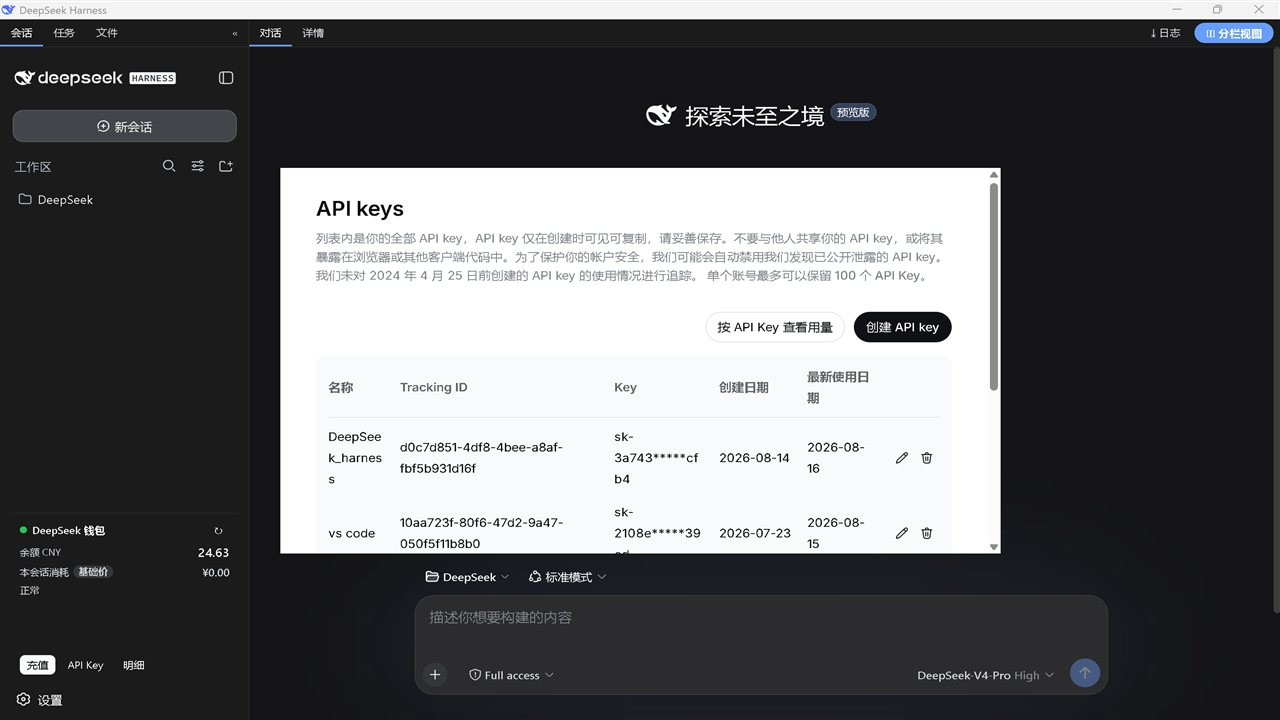
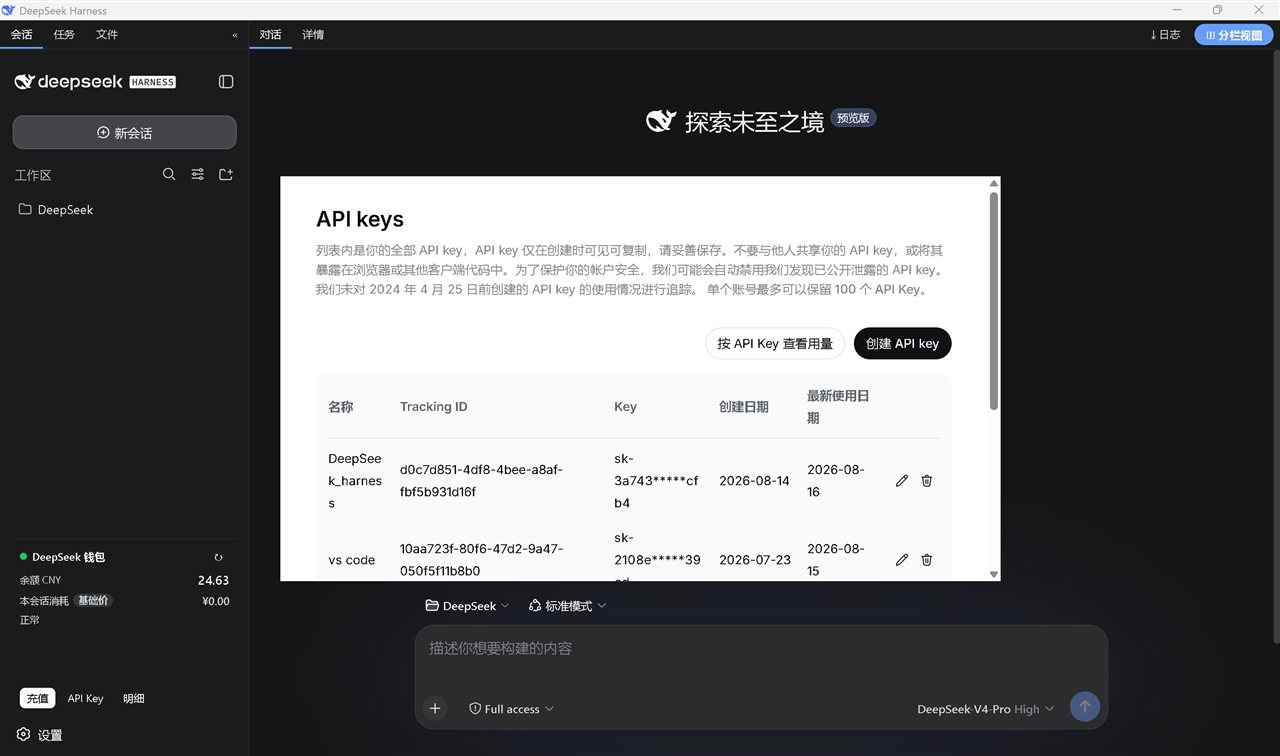
feat: v1.1.0 消耗上限可编辑告警（上下文过长居中提示）+ 三张界面截图

diff --git a/lib/client.js b/lib/client.js
@@ -63,6 +63,11 @@ window.__ModuleLoader__.load({
 .dsw-band.offpeak{background:color-mix(in srgb,var(--dsw-alias-state-success-primary) 20%,transparent);color:var(--dsw-alias-state-success-primary);}
 .dsw-bal-val{font-weight:600;font-size:14px;font-variant-numeric:tabular-nums;}
 .dsw-cost-val{font-weight:600;font-size:13px;font-variant-numeric:tabular-nums;color:var(--dsw-alias-label-secondary);cursor:default;}
+.dsw-threshold-wrap{display:inline-flex;align-items:center;gap:3px;}
+.dsw-threshold-symbol{color:var(--dsw-alias-label-secondary);font-size:11px;}
+.dsw-threshold-input{width:54px;background:var(--dsw-alias-bg-layer-1);border:1px solid var(--dsw-alias-border-l1);color:var(--dsw-alias-label-primary);border-radius:6px;padding:2px 6px;font-size:11px;font-family:inherit;text-align:right;font-variant-numeric:tabular-nums;box-sizing:border-box;}
+.dsw-threshold-input:focus{outline:none;border-color:var(--dsw-alias-brand-primary);}
+.dsw-center{text-align:center;line-height:1.6;}
 .dsw-cost-wrap{position:relative;display:inline-flex;}
 .dsw-tooltip{display:none;position:absolute;right:0;top:calc(100% + 6px);z-index:50;min-width:220px;background:var(--dsw-alias-bg-overlay);border:1px solid var(--dsw-alias-border-l2);border-radius:8px;padding:7px 9px;flex-direction:column;gap:4px;box-shadow:var(--dsw-shadow-lv2);}
 .dsw-cost-wrap:hover .dsw-tooltip{display:flex;}
@@ -101,6 +106,7 @@ window.__ModuleLoader__.load({
       );
       const [view, setView] = React.useState(null);
       const [cost, setCost] = React.useState(null);
+      const [thresholdDraft, setThresholdDraft] = React.useState(null);
       const labelRef = React.useRef(null);
       const bandRef = React.useRef(null);
 
@@ -148,9 +154,22 @@ window.__ModuleLoader__.load({
       const currency = view && (view.currency || (view.balances[0] && view.balances[0].currency)) || 'CNY';
       const total = view && view.total !== undefined ? view.total : undefined;
       const costTotal = cost && cost.ok === true && cost.cost !== undefined ? cost.cost : undefined;
+      const threshold = view && view.costThreshold !== undefined ? view.costThreshold : 5;
+      const overThreshold = costTotal !== undefined && costTotal > threshold;
+
+      const saveThreshold = (val) => {
+        const t = Number(val);
+        setThresholdDraft(null);
+        if (!Number.isFinite(t) || t < 0 || t === threshold) return;
+        fetch('/wallet/api/set-threshold', { method: 'POST', headers: { 'Content-Type': 'application/json' }, body: JSON.stringify({ threshold: t }) })
+          .then((r) => r.json())
+          .then((v) => { if (v && v.ok) { apiGet('/wallet/api/balance').then((b) => setView(b), () => {}); } })
+          .catch(() => {});
+      };
 
       const statusLine = !view ? '连接中…'
-        : (view.error ? '余额查询失败' : (view.available ? '正常' : '账户不可用'));
+        : (view.error ? '余额查询失败'
+          : (view.available ? '上下文长度正常' : '账户不可用'));
 
       return h('div', { className: 'dsw-dock' },
         h('div', { className: 'dsw-dock-head' },
@@ -190,7 +209,25 @@ window.__ModuleLoader__.load({
             ),
           ) : h('span', { className: 'dsw-cost-val' }, costTotal !== undefined ? ('¥' + fmt(costTotal)) : '--'),
         ),
-        h('div', { className: 'dsw-hint' }, statusLine),
+        h('div', { className: 'dsw-bal-row' },
+          h('span', { className: 'dsw-bal-cur' }, '消耗上限'),
+          h('span', { className: 'dsw-threshold-wrap' },
+            h('span', { className: 'dsw-threshold-symbol' }, '¥'),
+            h('input', {
+              className: 'dsw-threshold-input',
+              type: 'number', min: 0, step: 0.5,
+              value: thresholdDraft !== null ? thresholdDraft : threshold,
+              onChange: (e) => setThresholdDraft(e.target.value),
+              onBlur: (e) => saveThreshold(e.target.value),
+              onKeyDown: (e) => { if (e.key === 'Enter') e.target.blur(); },
+            }),
+          ),
+        ),
+        overThreshold
+          ? h('div', { className: 'dsw-err dsw-center' },
+              h('div', null, '⚠ 当前窗口上下文过长'),
+              h('div', null, '请尝试新建对话避免余额浪费'))
+          : h('div', { className: 'dsw-hint dsw-center' }, statusLine),
         h('div', { className: 'dsw-dock-btns' },
           h('button', { type: 'button', className: 'dsw-btn dsw-primary', onClick: () => openUrl(RECHARGE_URL) }, '充值'),
           h('button', { type: 'button', className: 'dsw-btn', onClick: () => openUrl(API_KEYS_URL) }, 'API Key'),

diff --git a/lib/index.js b/lib/index.js
@@ -67,6 +67,7 @@ export function apply(ctx) {
   let balanceView = null;
   let balanceAt = 0;
   let inflight = null;
+  let costThreshold = 5; // 上下文消耗告警阈值（CNY，默认 5 元）
 
   async function resolveKey() {
     if (!credentials) return "";
@@ -117,6 +118,7 @@ export function apply(ctx) {
           fetchedAt,
           available: body.is_available !== false,
           balances: buckets,
+          costThreshold,
           ...(total !== undefined && !Number.isNaN(total) ? { total, currency: buckets[0].currency } : {}),
           ...(low.length ? { low } : {}),
         };
@@ -205,6 +207,15 @@ export function apply(ctx) {
     const session = resolveSession(sid);
     if (!session) return { ok: false, error: "unknown-session" };
     return { ok: true, ...sessionCost(session) };
+  });
+  registerRoute("POST", "/wallet/api/set-threshold", async (req) => {
+    let body = "";
+    try { for await (const chunk of req) body += chunk; } catch { /* ignore */ }
+    let parsed = {};
+    try { parsed = body ? JSON.parse(body) : {}; } catch { /* ignore */ }
+    const t = Number(parsed.threshold);
+    if (Number.isFinite(t) && t >= 0) costThreshold = t;
+    return { ok: true, costThreshold };
   });
 
   // —— 模型工具 ——

diff --git a/README.md b/README.md
@@ -10,6 +10,7 @@ DeepSeek Harness（DSH）钱包插件 —— 在左栏底部常驻显示 **DeepS
 | 会话成本 | 用 DSH token-meter 投影 × 官方价格表，实时估算**当前会话消耗金额**；悬停金额展开输入 / 缓存命中 / 输出的 token 量与金额明细 |
 | 峰谷计价 | 已内置 2026-08-17 生效的官方峰谷价：高峰时段（北京 9:00–12:00、14:00–18:00）自动按高峰价，其余空闲价 |
 | 低余额告警 | CNY < ¥10 或 USD < $2 时面板标红提醒充值 |
+| 消耗上限 | 可编辑单会话消耗上限（默认 ¥5），超限时居中提示「上下文过长，建议新建对话避免余额浪费」 |
 | 一键充值 | 点击「充值」在 **DSH 窗口内**打开官方充值页 `platform.deepseek.com/top_up`（不弹系统浏览器） |
 | API Key | 自动读取 DSH 凭据 `DEEPSEEK_API_KEY`，点击「API Key」在 DSH 窗口内打开官方 Keys 页 |
 | 用量明细 | 点击「明细」在 DSH 窗口内打开官方用量页 `platform.deepseek.com/usage` |
@@ -24,6 +25,10 @@ DeepSeek Harness（DSH）钱包插件 —— 在左栏底部常驻显示 **DeepS
 完整界面：
 
 ![界面](https://cdn.jsdelivr.net/gh/Ln1m/dsh-wallet@main/assets/screenshot.jpg)
+
+消耗上限设置（可编辑）与上下文过长告警：
+
+![消耗上限](https://cdn.jsdelivr.net/gh/Ln1m/dsh-wallet@main/assets/screenshot-updated.png)
 
 ```
 DeepSeek 钱包                     ↻
